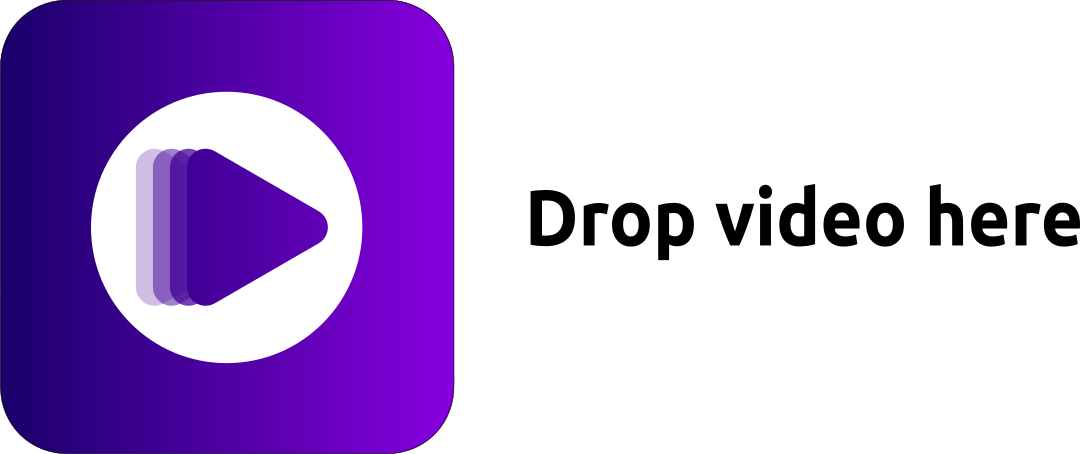
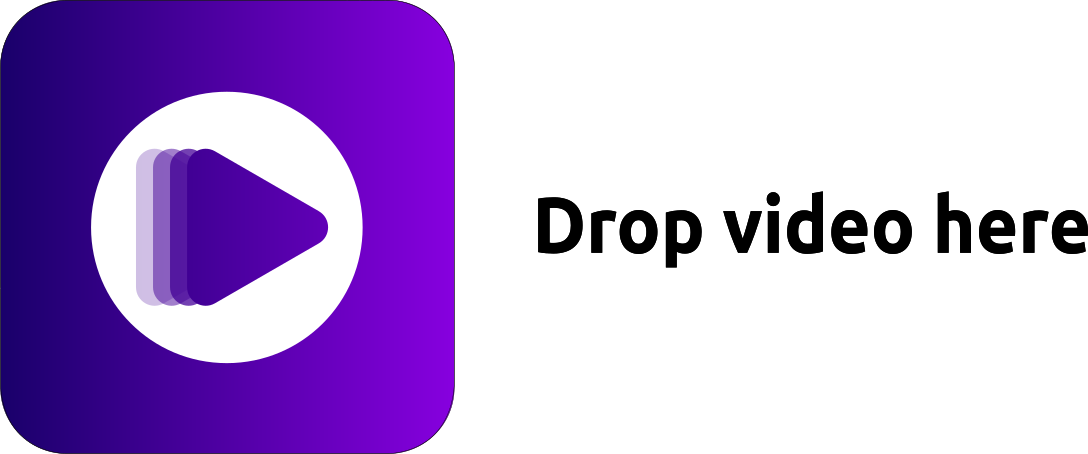
add indicator back to drag and drop

diff --git a/main.py b/main.py
@@ -51,7 +51,7 @@ from PyQt5.QtWidgets import QListWidget, QFileDialog, QListWidgetItem
 import modules.interpolate as interpolate
 import modules.upscale as upscale
 from PyQt5.QtWidgets import  QVBoxLayout, QLabel
-from PyQt5.QtCore import Qt
+from PyQt5.QtCore import Qt, QSize
 from PyQt5.QtGui import QPixmap
 def switch_theme(value):
     
@@ -59,18 +59,12 @@ def switch_theme(value):
     settings.change_setting('Theme',f'{value}')
     theme.set_theme(app)
 
-class FileDropWidget(QListWidget):
+class FileDropWidget(QLabel):
     def __init__(self, parent=None):
         super(FileDropWidget, self).__init__(parent)
-        '''layout = QVBoxLayout()
-        self.label = QLabel(self)
-        self.label.setAlignment(Qt.AlignCenter)
-        layout.addWidget(self.label)
-        self.setLayout(layout)
-          
-        pixmap = QPixmap(f'{thisdir}/icons/Dragndrop.png')
-        scaled_pixmap = pixmap.scaled(self.label.size()*5, Qt.KeepAspectRatio)
-        self.label.setPixmap(scaled_pixmap)'''
+        pixmap = QPixmap(f"{thisdir}/icons/Dragndrop.png")
+        pixmap = pixmap.scaled(QSize(int(1088/2.5), int(454/2.5)))
+        self.setPixmap(pixmap)
         self.setAcceptDrops(True)
         self.main = parent
         
